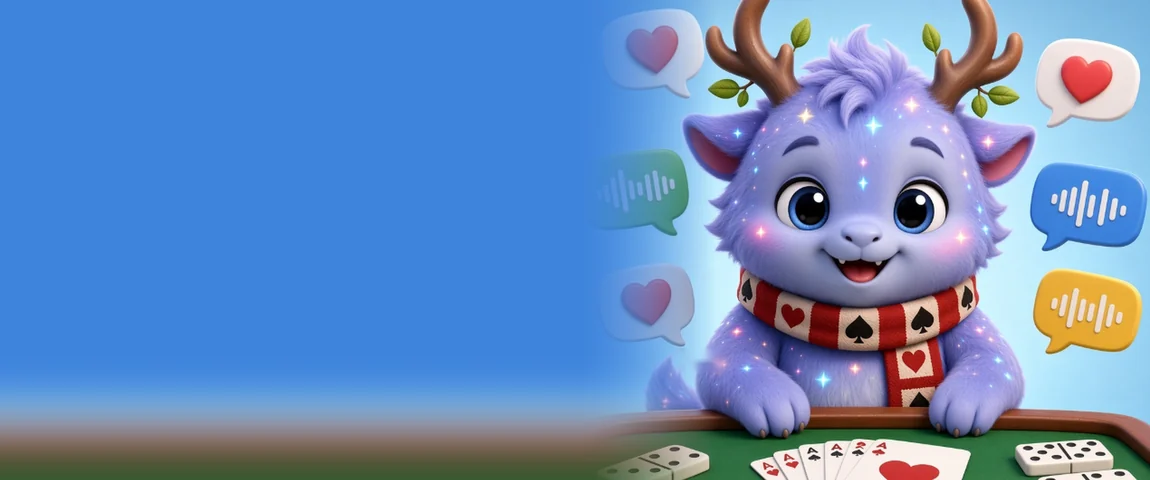
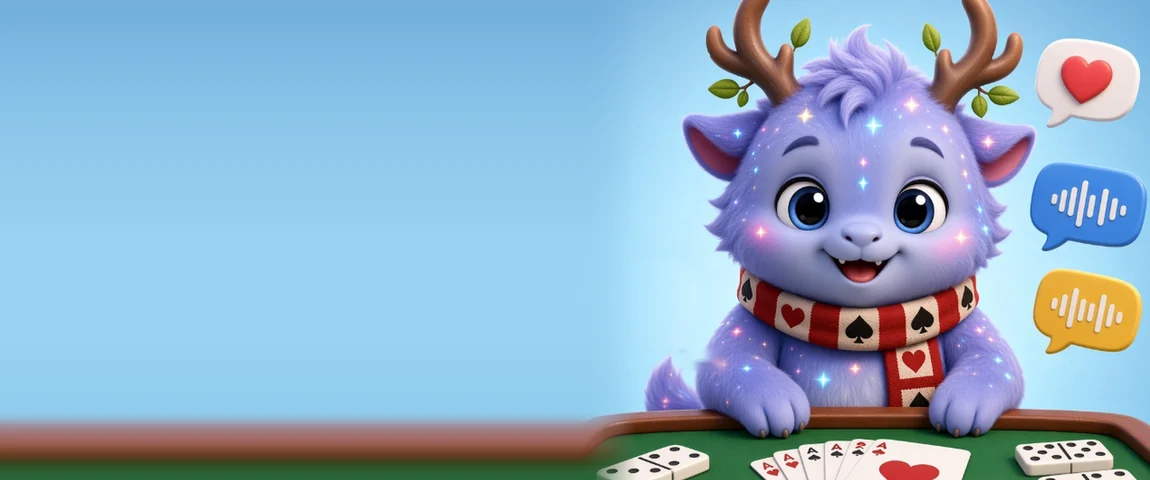
Mesa: brilhos do rosto do Lumi piscando de leve no inicio; Convide amigos sem os baloes da esquerda

diff --git a/mesa/assets/index-m7KP2npT.css b/mesa/assets/index-m7KP2npT.css
@@ -12,7 +12,16 @@
 :root .loja-oferta:not(.loja-oferta-vazia) .oferta-barraca{display:none}
 
 /* Lumi 2026-11-24: Convide amigos (aba Amigos) com a arte ocupando a caixa inteira */
-:root .cv-atalho{position:relative;overflow:hidden;min-height:136px;padding:16px 44% 16px 18px;border:0;border-radius:24px;color:#fff;background:linear-gradient(90deg,#0d2a66f2 0%,#0d2a66cc 34%,#0d2a6600 64%),url(/mesa/arte/convites/convide-amigos-fundo.webp) 100% 50%/cover no-repeat,#2f6fd8;box-shadow:0 8px 20px #1b3f8a40}
+:root .cv-atalho{position:relative;overflow:hidden;min-height:136px;padding:16px 44% 16px 18px;border:0;border-radius:24px;color:#fff;background:linear-gradient(90deg,#0d2a66f2 0%,#0d2a66cc 34%,#0d2a6600 64%),url(/mesa/arte/convites/convide-amigos-fundo.webp?v=2) 100% 50%/cover no-repeat,#2f6fd8;box-shadow:0 8px 20px #1b3f8a40}
 :root .cv-atalho img{display:none}
 :root .cv-atalho strong{color:#fff;font-size:20px;text-shadow:0 2px 6px #0a1c4699}
 :root .cv-atalho small{color:#e3edff;font-size:13px;text-shadow:0 1px 4px #0a1c4699}
+
+/* Lumi 2026-11-24: brilhos do rosto do Lumi no cabeçalho piscam de leve (2 camadas alinhadas à imagem, ciclos lentos e defasados) */
+.mj-nubo-boas-vindas::before,.mj-nubo-boas-vindas::after{content:"";position:absolute;z-index:1;width:310px;height:310px;bottom:-132px;right:-15px;background:url(/mesa/arte/nubo/lumi-brilhos-a.webp) 0 0/100% 100% no-repeat;pointer-events:none;opacity:0;will-change:opacity;animation:lumi-brilho 5.2s ease-in-out infinite}
+.mj-nubo-boas-vindas::after{background-image:url(/mesa/arte/nubo/lumi-brilhos-b.webp);animation-duration:6.6s;animation-delay:-3.1s}
+@keyframes lumi-brilho{0%,30%,100%{opacity:0}55%{opacity:.7}70%{opacity:.45}}
+@media (width<=350px){.mj-nubo-boas-vindas::before,.mj-nubo-boas-vindas::after{width:245px;height:245px;bottom:-104px;right:-20px}}
+@media (width>=600px){.mj-nubo-boas-vindas::before,.mj-nubo-boas-vindas::after{width:360px;height:360px;bottom:-152px;right:0}}
+@media (prefers-reduced-motion:reduce){.mj-nubo-boas-vindas::before,.mj-nubo-boas-vindas::after{animation:none;display:none}}
+:root[data-grafico=leve] .mj-nubo-boas-vindas::before,:root[data-grafico=leve] .mj-nubo-boas-vindas::after{animation:none;display:none}

diff --git a/mesa/index.html b/mesa/index.html
@@ -12,7 +12,7 @@
     <link rel="apple-touch-icon" href="./arte/nubo/icone-mesa.png" />
     <title>Mesa</title>
     <script type="module" crossorigin src="/mesa/assets/index-DEbyZsfO.js"></script>
-    <link rel="stylesheet" crossorigin href="/mesa/assets/index-m7KP2npT.css?v=lumi-20261124">
+    <link rel="stylesheet" crossorigin href="/mesa/assets/index-m7KP2npT.css?v=lumi-20261124b">
     <link rel="stylesheet" href="/mesa/assets/desktop-ac6fca2332ce.css">
     <link rel="stylesheet" href="/mesa/assets/mesa-extras-01f14be6c7fd.css">
     <link rel="stylesheet" href="/mesa/assets/mesa-visual-78aca71a2c58.css">
